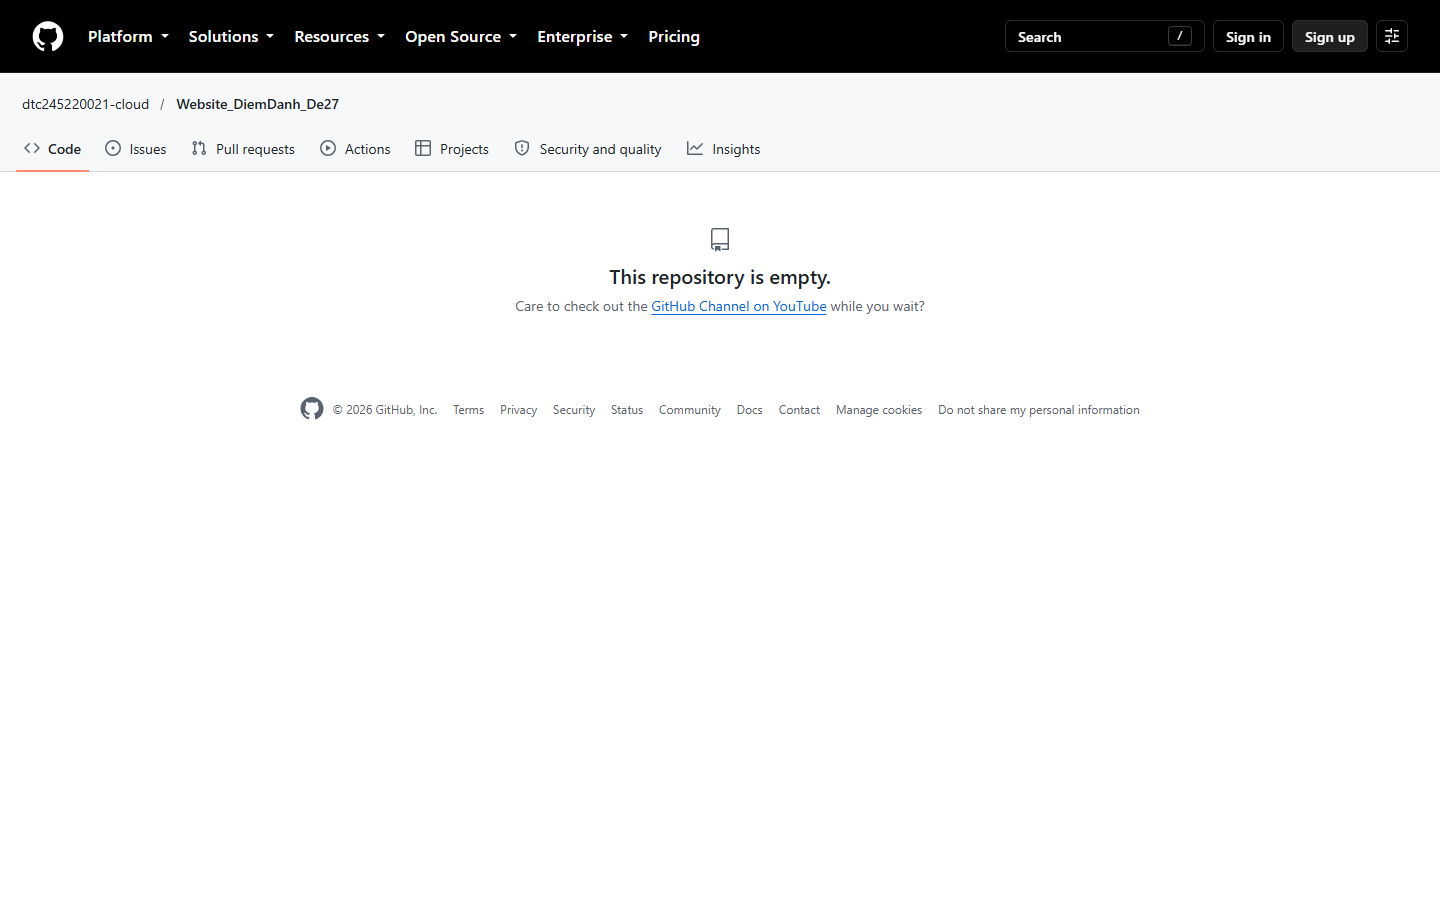
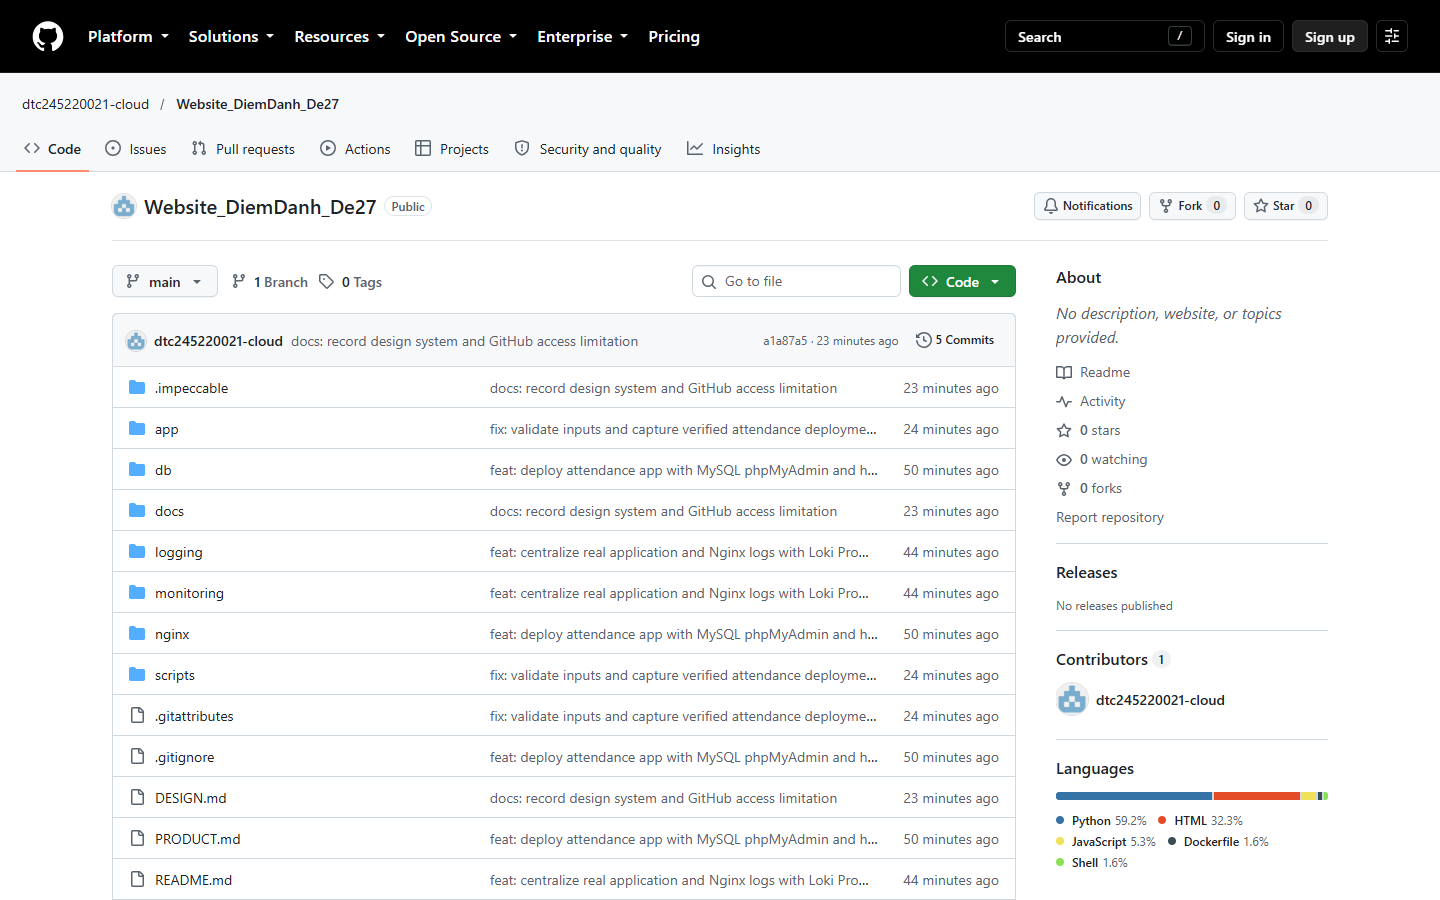
docs: verify GitHub publication and add demo handover

diff --git a/docs/HANDOVER.md b/docs/HANDOVER.md
@@ -1,0 +1,22 @@
+# Bàn giao Đề 27
+
+Project: D:\Job_2026_ICTU\Job 3\Project
+Báo cáo: D:\Job_2026_ICTU\Job 3\Báo cáo\Bao_cao_De27_Chu_The_Manh_DTC245220021.docx
+Repository: https://github.com/dtc245220021-cloud/Website_DiemDanh_De27
+
+| Thành phần | URL | Tài khoản / biến mật khẩu trong .env |
+|---|---|---|
+| Website | http://127.0.0.1:8080 | admin@attendance.local / ADMIN_PASSWORD |
+| Nhân viên | http://127.0.0.1:8080 | nv02@attendance.local đến nv05@attendance.local / EMPLOYEE_PASSWORD |
+| phpMyAdmin | http://127.0.0.1:8180 | attendance_app / DB_PASSWORD |
+| Prometheus | http://127.0.0.1:9090/targets | localhost, không đăng nhập |
+| Grafana | http://127.0.0.1:3001/d/attendance-overview | admin / GRAFANA_PASSWORD |
+| Loki readiness | http://127.0.0.1:3100/ready | localhost, không đăng nhập |
+
+Secrets chỉ ở .env và secrets/exporter.cnf trên máy, không Git hoặc báo cáo. Không mở file secrets khi trình chiếu.
+
+Kiểm chứng: 27 integration checks không mock; 2 unit tests; npm audit 0; 4 targets UP, 8 metrics có dữ liệu; bộ đếm tăng khi tạo tải; 3 LogQL có kết quả; quyền UID/network/ports/grants/headers; backup phục hồi schema riêng với 3 checksum khớp. Ảnh thật và JSON tại docs/evidence. Báo cáo được cập nhật TOC bằng Word và render kiểm tra từng trang.
+
+Trước demo: Docker Desktop chạy Linux containers; chạy `python scripts/compose.py 3 up -d --build`, đợi healthy. Nhân viên nv01 đã được dùng thử cả ba ca hôm nay; dùng nv02 đến nv05 hoặc ca mới để demo, không xóa lịch sử. Tạo request404 và login sai để có log mới; chọn Last1hour trong Explore. Query trong docs/logql.md. Có thể chạy scripts/verify_runtime.py để cập nhật dữ liệu mới; bản báo cáo giữ snapshot thời điểm nghiệm thu.
+
+Giới hạn: HTTP localhost + security headers, chưa TLS; Promtail EOL vẫn dùng theo đề; cAdvisor privileged; phpMyAdmin/Promtail có ngoại lệ root; chưa log rotation file app/Nginx, chưa tải dài/CVE toàn image, chưa HA/ca qua đêm/tính lương. Không dùng down -v, không reset DB. Backup nằm ngoài Git, restore schema riêng được giữ để đối chiếu.
